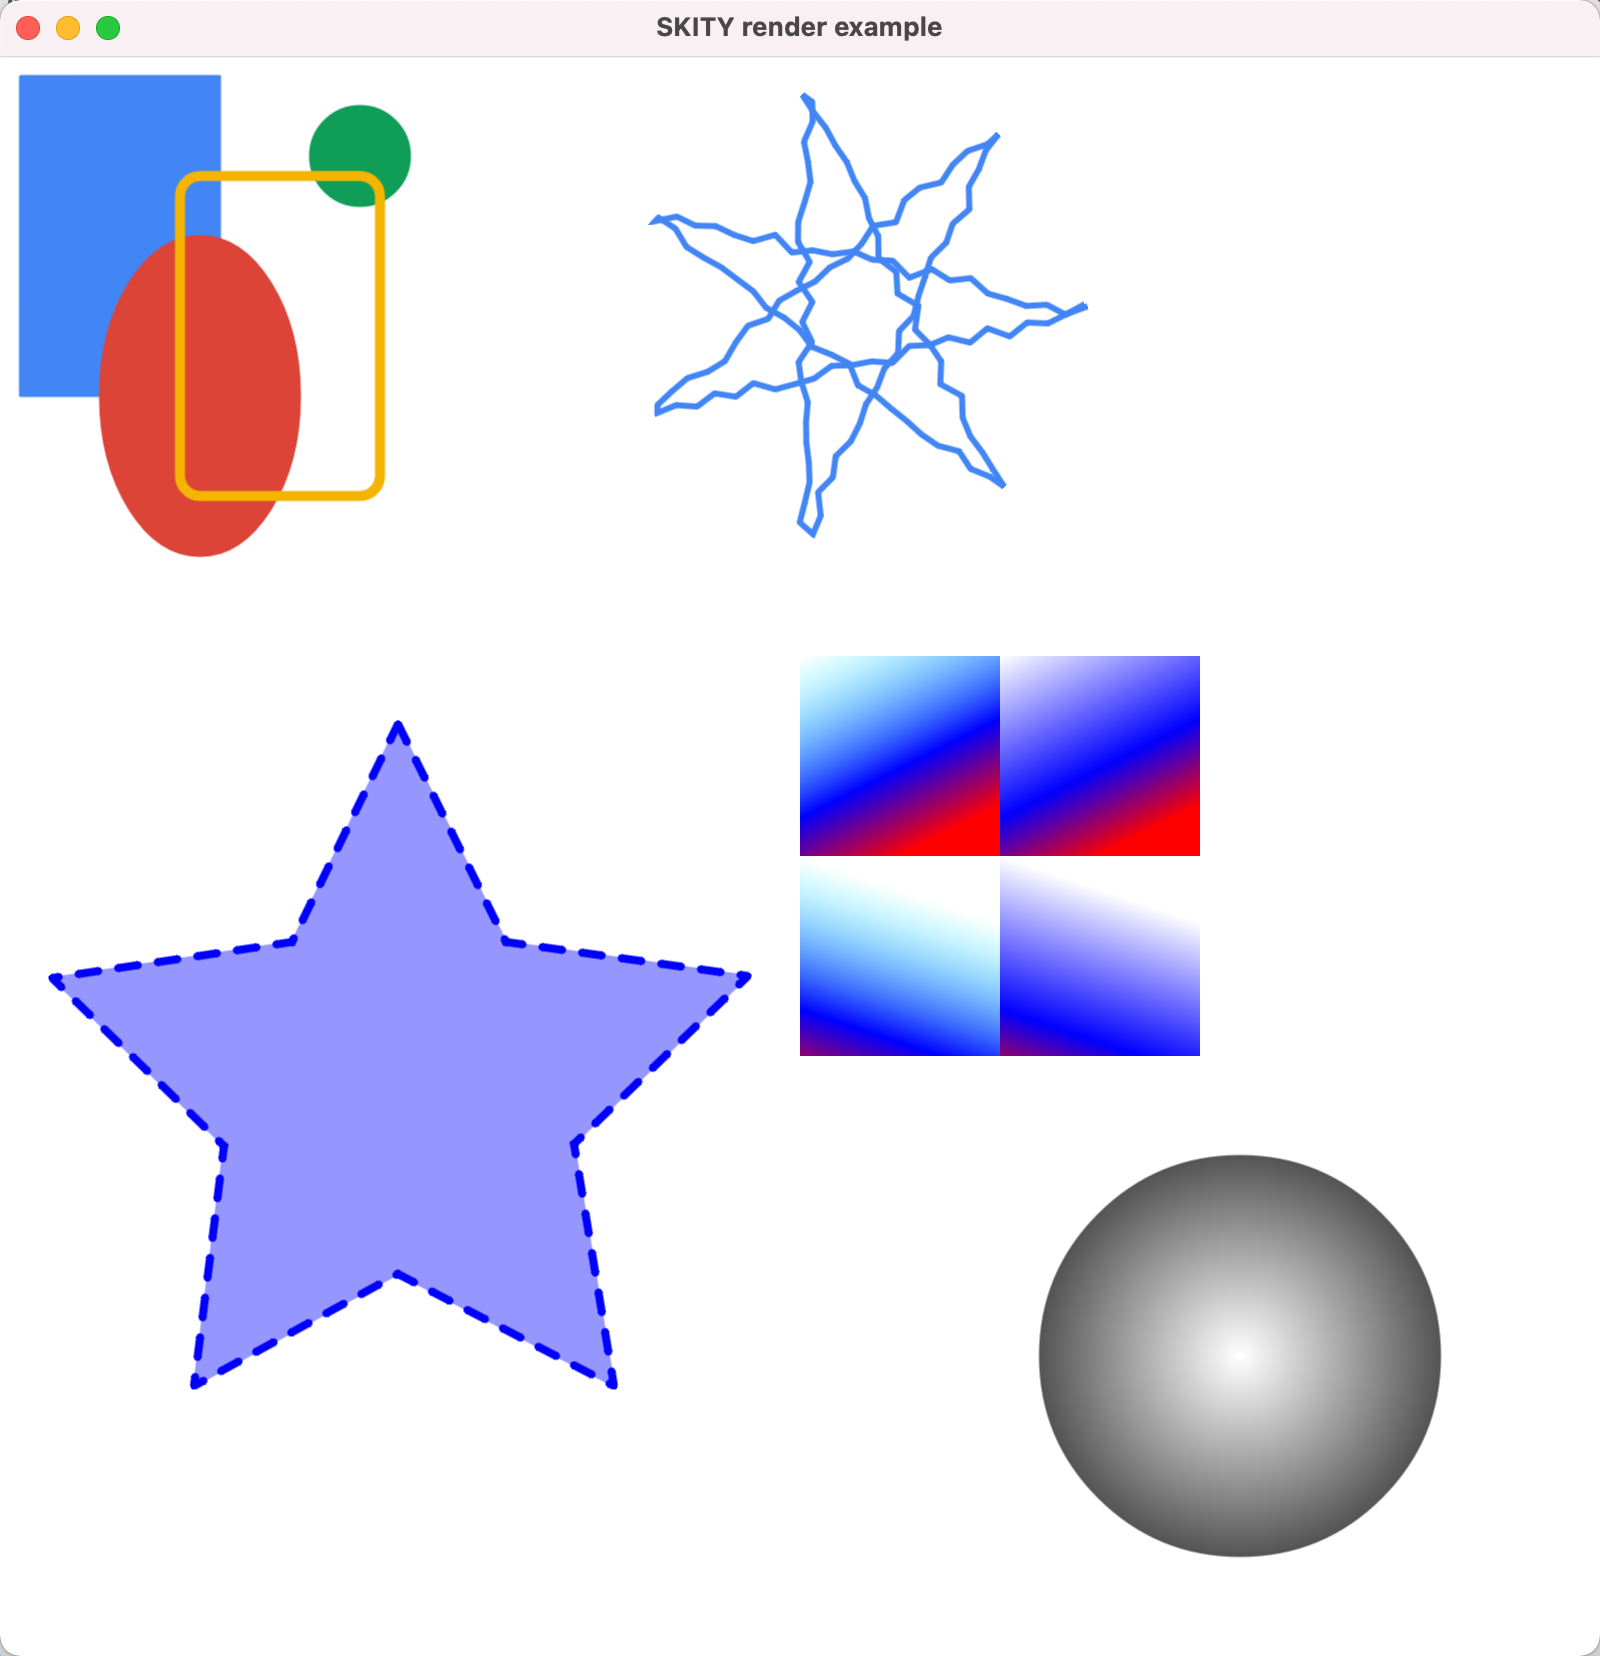
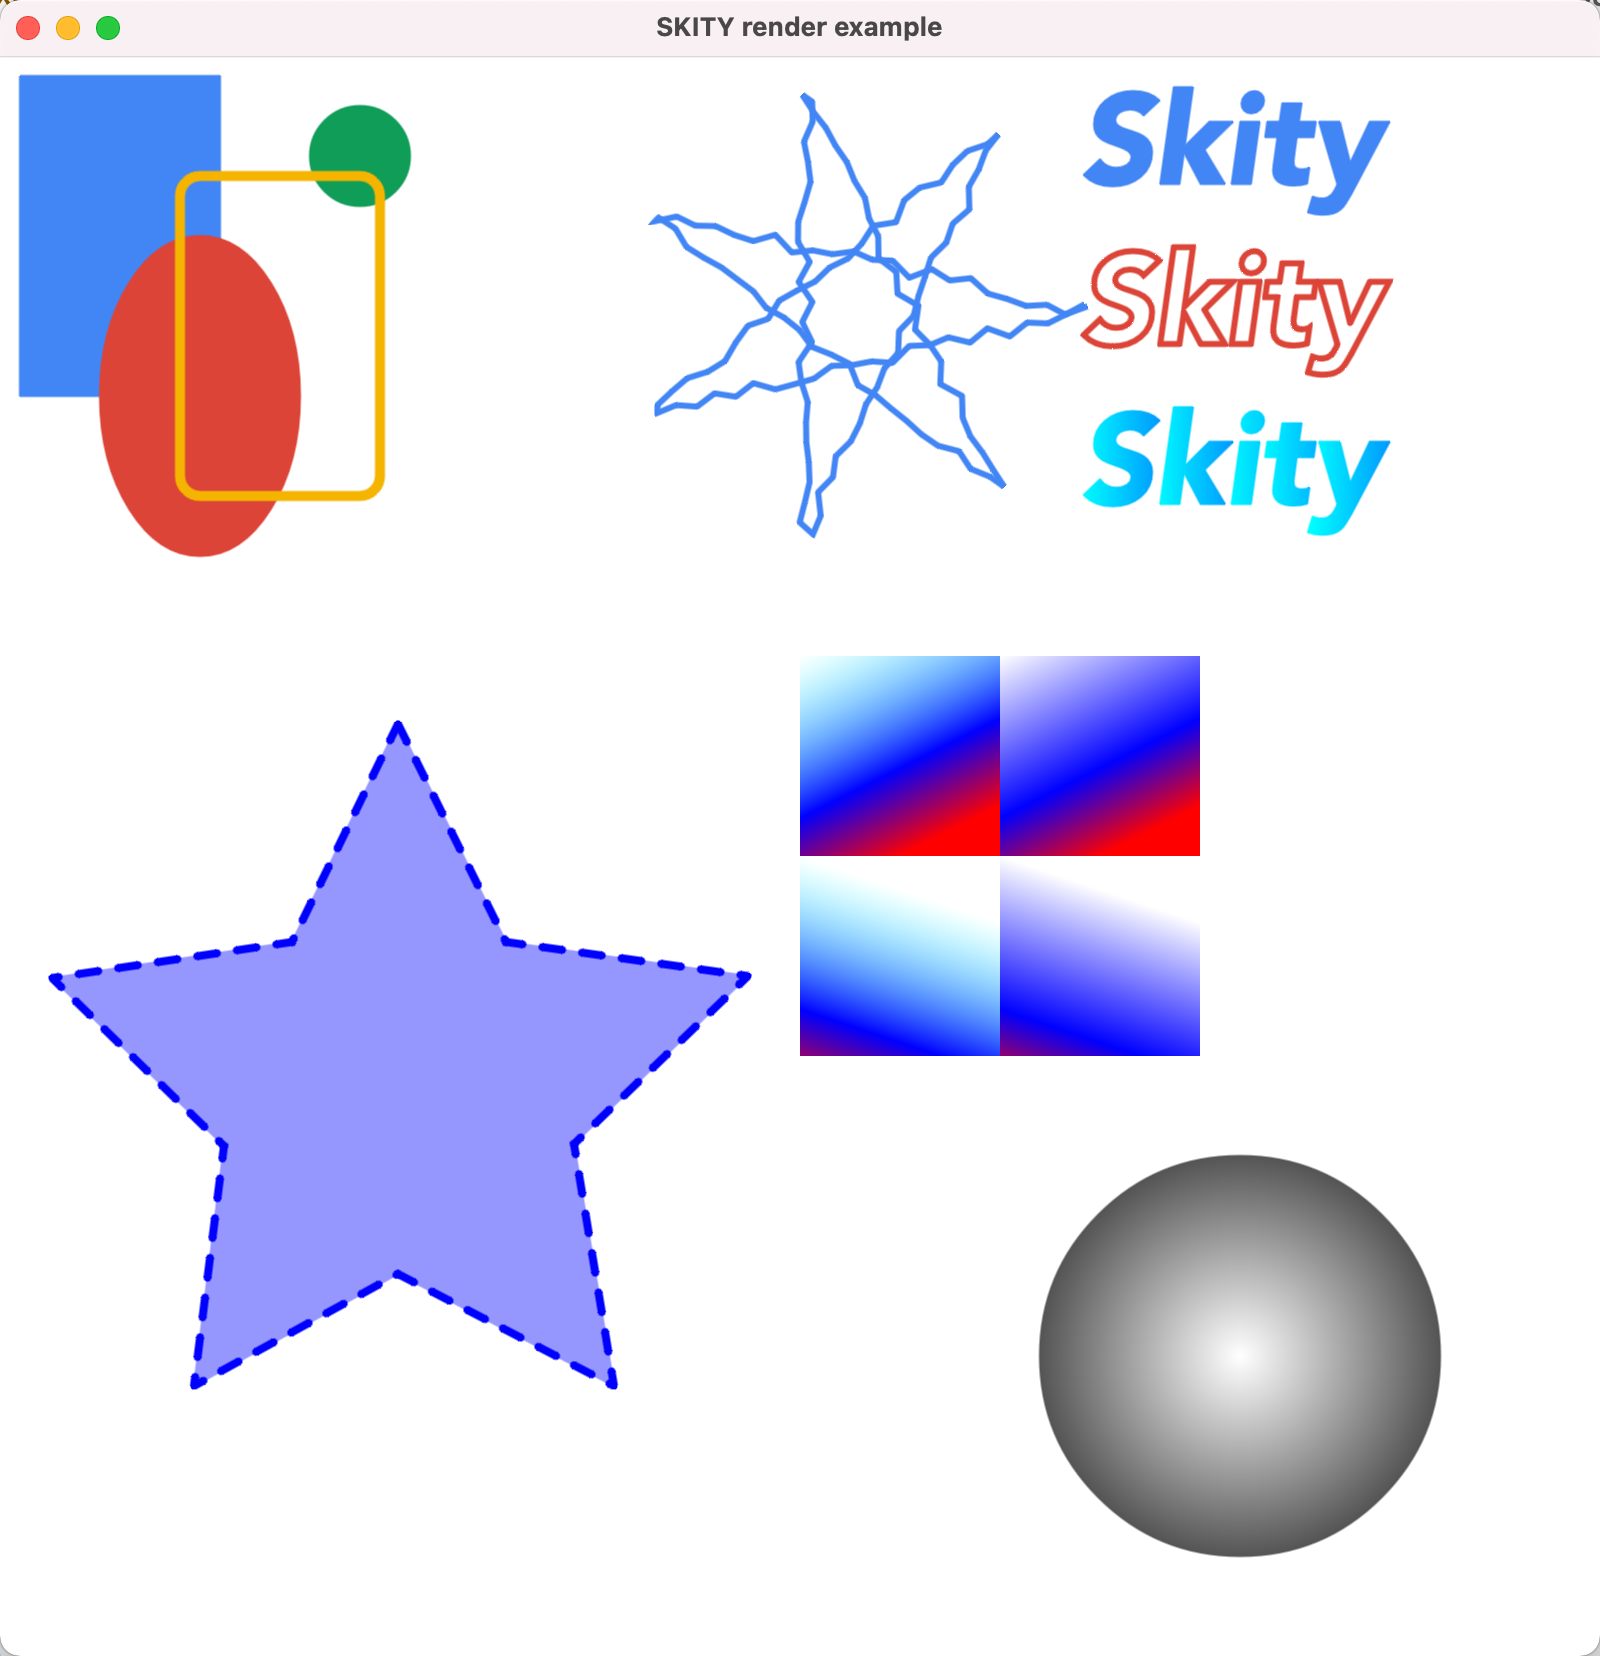
update draw_text_example and screenshot

Changed region(s): [[0.6562, 0.0308, 0.875, 0.3388]]

diff --git a/example/example.cc b/example/example.cc
@@ -179,14 +179,27 @@ void draw_simple_text(skity::Canvas* canvas) {
 
   paint.setStyle(skity::Paint::kStroke_Style);
   paint.SetStrokeColor(0xDB / 255.f, 0x44 / 255.f, 0x37 / 255.f, 1.f);
-  paint.setStrokeWidth(3.f);
+  paint.setStrokeWidth(2.f);
   canvas->drawSimpleText("Skity", 20.f, 144.f, paint);
 
   paint.SetFillColor(0x0F / 255.f, 0x9D / 255.f, 0x58 / 255.f, 1.f);
   paint.setStyle(skity::Paint::kFill_Style);
 
   canvas->save();
-  // canvas->scale(1.5f, 1.f);
+
+  skity::Vec4 colors[] = {
+      skity::Vec4{0.f, 1.f, 1.f, 1.f},
+      skity::Vec4{0.f, 0.f, 1.f, 1.f},
+      skity::Vec4{1.f, 0.f, 0.f, 1.f},
+  };
+
+  std::vector<skity::Point> pts = {
+      skity::Point{0.f, 0.f, 0.f, 1.f},
+      skity::Point{200.f, 0.f, 0.f, 1.f},
+  };
+
+  auto lgs = skity::Shader::MakeLinear(pts.data(), colors, nullptr, 3);
+  paint.setShader(lgs);
   canvas->drawSimpleText("Skity", 20.f, 224.f, paint);
   canvas->restore();
 }
